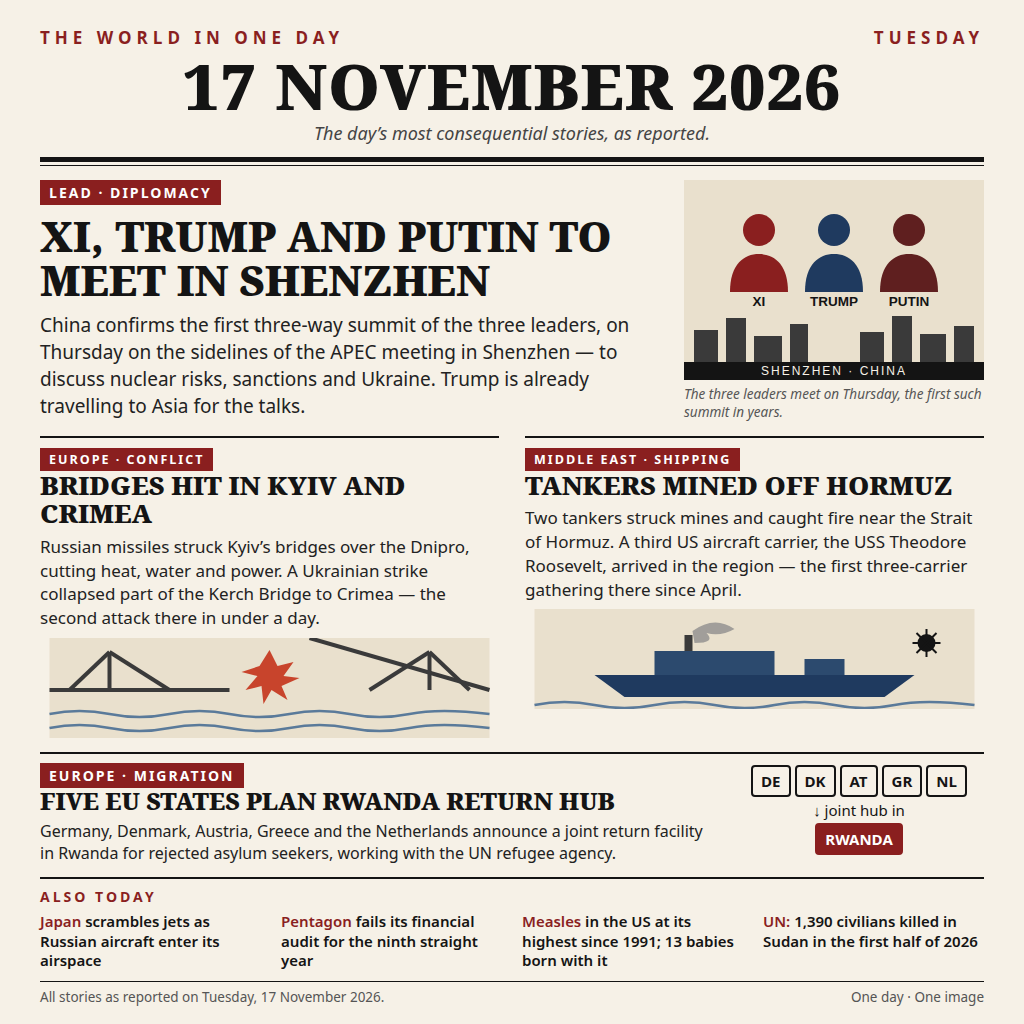
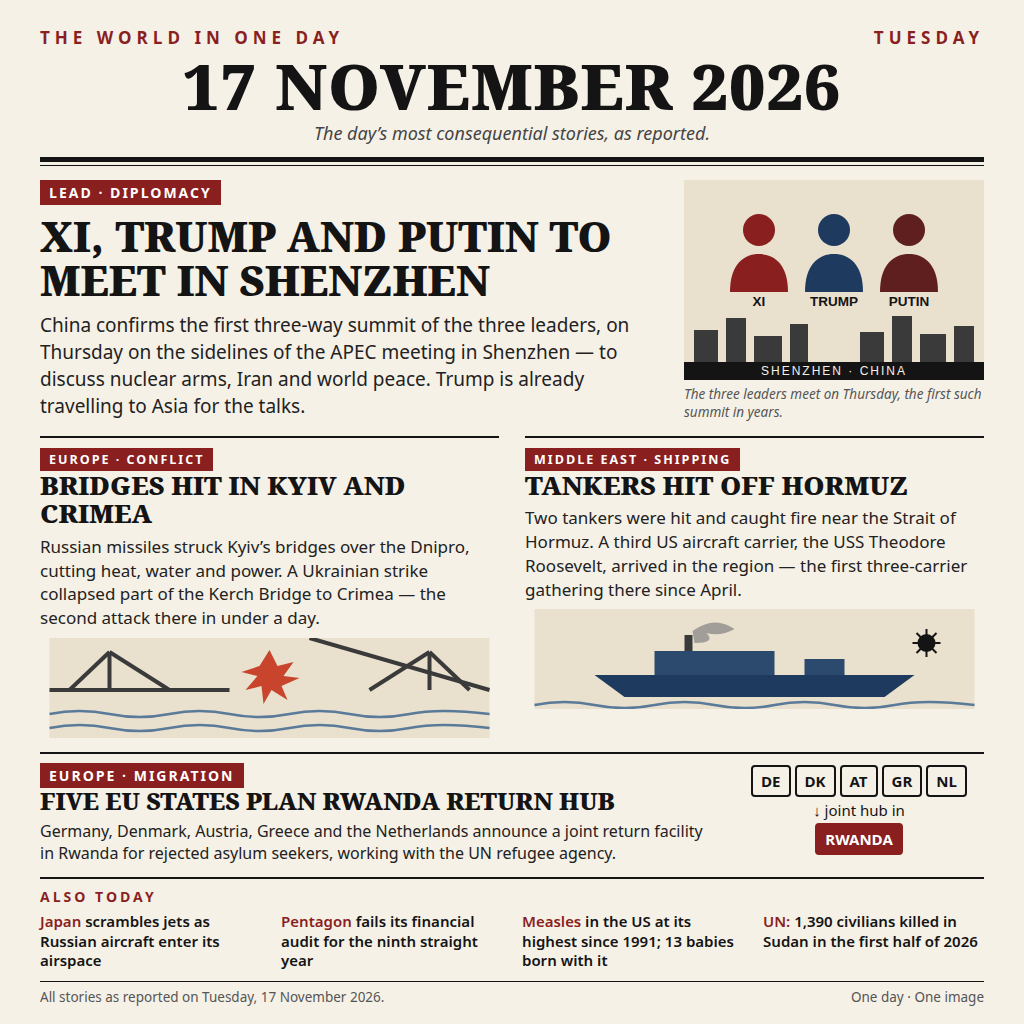
Accuracy fix: summit topics (nuclear arms, Iran, world peace); Hormuz tankers 'hit' not 'mined'

Changed region(s): [[0.5, 0.4688, 0.9688, 0.5625], [0.1875, 0.3438, 0.5938, 0.375]]

diff --git a/frontpage.html b/frontpage.html
@@ -99,8 +99,8 @@
       <span class="tag">Lead &middot; Diplomacy</span>
       <h1>XI, TRUMP AND PUTIN TO MEET IN SHENZHEN</h1>
       <p>China confirms the first three-way summit of the three leaders, on Thursday
-      on the sidelines of the APEC meeting in Shenzhen &mdash; to discuss nuclear risks,
-      sanctions and Ukraine. Trump is already travelling to Asia for the talks.</p>
+      on the sidelines of the APEC meeting in Shenzhen &mdash; to discuss nuclear arms,
+      Iran and world peace. Trump is already travelling to Asia for the talks.</p>
     </div>
     <div class="lead-visual">
       <svg viewBox="0 0 300 200" xmlns="http://www.w3.org/2000/svg">
@@ -153,8 +153,8 @@
     </div>
     <div class="story">
       <span class="tag">Middle East &middot; Shipping</span>
-      <h2>TANKERS MINED OFF HORMUZ</h2>
-      <p>Two tankers struck mines and caught fire near the Strait of Hormuz. A third
+      <h2>TANKERS HIT OFF HORMUZ</h2>
+      <p>Two tankers were hit and caught fire near the Strait of Hormuz. A third
       US aircraft carrier, the USS Theodore Roosevelt, arrived in the region &mdash;
       the first three-carrier gathering there since April.</p>
       <svg viewBox="0 0 440 100" xmlns="http://www.w3.org/2000/svg">
